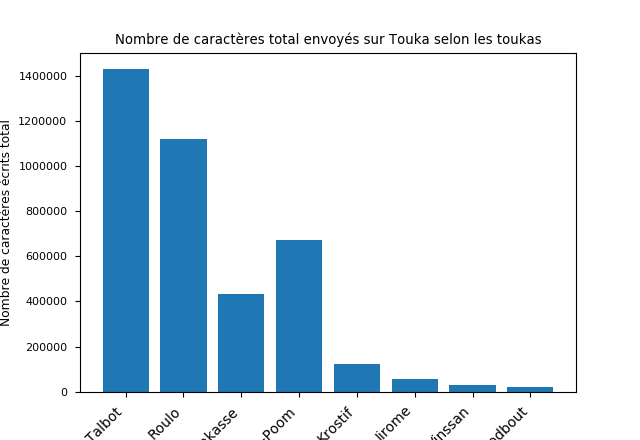
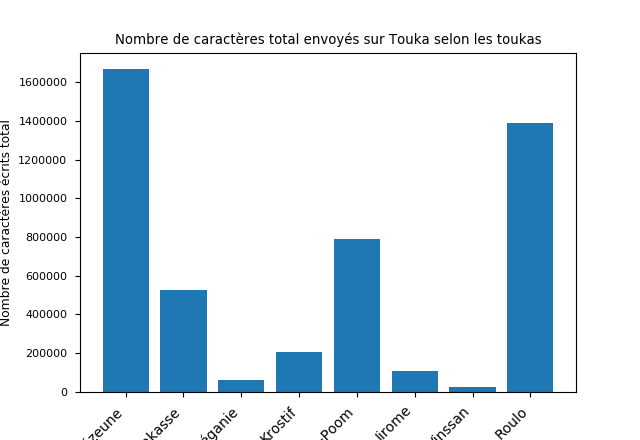
update TODO, adapt touka_analytics.py to DB

diff --git a/analytics/touka_analytics_DB.py b/analytics/touka_analytics_DB.py
@@ -1,10 +1,8 @@
-import json
-import codecs
 import datetime
+import pandas as pd
+from pymongo import MongoClient
 import matplotlib.pyplot as plt
 from scipy.interpolate import interp1d
-import numpy as np
-from matplotlib import dates
 
 
 def activite(temps, messages, dx=25):
@@ -26,123 +24,105 @@ def activite_interp(temps, messages, dx=3600):
 
 plt.style.use('seaborn-paper')
 
-noms_touka = ['Jé Talbot', 'Roulo', 'Lakasse', 'Pierre-Poom', 'Krostif', 'Jirome', 'Vinssan', 'Godbout']
+client = MongoClient("localhost", 27017)
+db = client['ToukaAnalytics']
 
-data = json.load(codecs.open('touka.json', 'r', 'utf-8'))  # Pour avoir les caractères spéciaux
+members = db['members']
+messages = db['messages']
 
-map_touka = dict(zip([participant['name'] for participant in data['participants']], noms_touka))
+data = []
 
-comptes = [sum([message['sender_name'] == participant['name'] for message in data['messages']]) for participant in
-           data['participants']]
+for member in members.find({}):
+    name = member['name']
+    # messages.aggregate( [ { "$project" : { 'content' : 1 , 'date' : 1 } } ] )
+    query_txt = {'$and': [ {'author': name}, {'content': {'$exists': True, '$ne': None } } ] }
+    query_react = {'$and': [ {'author': name}, {'reaction': {'$exists': True, '$ne': None } } ] }
 
-timestamps_tout = [float(message['timestamp_ms'] / 1000) for message in data['messages']]
+    member_messages = { msg['date'] : msg['content'] for msg in messages.find(query_txt) }
+    member_types = [ msg['type'] for msg in messages.find() ]
+    member_reacts = [ msg['reaction'] for msg in messages.find(query_react) ]
+    n_msg = messages.find(query_txt).count()
 
-messages_participant = [[message for message in data['messages'] if message['sender_name'] == participant['name']] for
-                        participant in
-                        data['participants']]
+    data.append( {'Name': member['pseudo'], 'txt_msg': member_messages, 'Type': member_types, 'Reaction' : member_reacts, 'msg_count' : n_msg} )
 
-nb_mess = [len(messages) for messages in messages_participant]
-print(nb_mess)
-
-# messages_participant: [[list de messages à jé talbot], [liste de message à roulo], ... ]
-
-timestamps = [[float(message['timestamp_ms'] / 1000) for message in participant] for participant in
-              messages_participant]  # [s]
+df = pd.DataFrame(data, columns=('Name', 'txt_msg', 'Type', 'Reaction', 'msg_count'))
+df = df.set_index('Name')
 
 nb_characters = []
 nb_characters_total = []
-for participant in messages_participant:
+for member in df.index:
     s = 0
     s_total = []
-    for message in participant:
-        try:
-            if message['content'][-17:] != "envoyé une photo.":
-                s += len(message['content'])
-        except:
-            ValueError
+    for msg in df.loc[member, 'txt_msg'].values():
+        s += len(msg)
         s_total.append(s)
     nb_characters.append(s_total)
     nb_characters_total.append(s)
 
-ratio_char_msg = [char / msg for char, msg in zip(nb_characters_total, nb_mess)]
+df['n_char'] = nb_characters
+df['n_char_total'] = nb_characters_total
 
-nb_messages = dict(zip([participant['name'] for participant in data['participants']], comptes))
-toukas_name_sorted = sorted(nb_messages.items(), key=lambda kv: kv[1])
-nb_messages = dict(sorted(nb_messages.items(), key=lambda kv: kv[1])[::-1])
+df['ratio_char_msg'] = df['n_char_total'] / df['msg_count']
 
-nb_messages = dict((map_touka[key], value) for (key, value) in nb_messages.items())
-
-plt.bar(nb_messages.keys(), nb_messages.values())
+plt.bar(df.index, df['msg_count'])
 plt.xticks(rotation=45, ha='right', size=10)
 plt.ylabel('Nombre de messages total')
 plt.title('Nombre de messages total envoyés sur Touka')
-plt.savefig('Figures/bar_nb_messages_total.png')
-# plt.show()
+plt.savefig('../figures/bar_nb_messages_total.png')
+plt.show()
 plt.clf()
 
-plt.bar(noms_touka, nb_characters_total)
+plt.bar(df.index, df['n_char_total'])
 plt.xticks(rotation=45, ha='right', size=10)
 plt.ylabel('Nombre de caractères écrits total')
 plt.title('Nombre de caractères total envoyés sur Touka selon les toukas')
-plt.savefig('Figures/bar_nb_char_total.png')
-# plt.show()
+plt.savefig('../figures/bar_nb_char_total.png')
+plt.show()
 plt.clf()
 
-plt.bar(noms_touka, ratio_char_msg)
+plt.bar(df.index, df['ratio_char_msg'])
 plt.xticks(rotation=45, ha='right', size=10)
 plt.ylabel('Ratio')
 plt.title('Ratio du nombre de caractères écrits par message sur Touka selon les toukas')
-plt.savefig('Figures/bar_ratio_char_msg.png')
-# plt.show()
+plt.savefig('../figures/bar_ratio_char_msg.png')
+plt.show()
 plt.clf()
 
-for i in range((len(timestamps))):
-    date_list = [datetime.datetime.fromtimestamp(t) for t in timestamps[i]]  # converted
-    plt.plot(date_list, range(len(timestamps[i]))[::-1], label=noms_touka[i])
+for name in df.index:
+    member_messages = df.loc[name, 'txt_msg']
+    plt.plot(member_messages.keys(), range(len(member_messages.keys()))[::-1], label=name)
 
 plt.gcf().autofmt_xdate()
 plt.legend()
 plt.ylabel('Nombre de messages')
 plt.title('Nombre de messages total dans le temps par touka')
-plt.savefig('Figures/nb_messages_dans_le_temps_par_touka.png')
-# plt.show()
+plt.savefig('../figures/nb_messages_dans_le_temps_par_touka.png')
+plt.show()
 plt.clf()
 
-for i in range((len(timestamps))):
-    date_list = [datetime.datetime.fromtimestamp(t) for t in timestamps[i]]  # converted
-    plt.plot(date_list, nb_characters[i][::-1], label=noms_touka[i])
+for name in df.index:
+    member_chars = df.loc[name, 'n_char']
+    plt.plot(member_chars, range(len(member_chars))[::-1], label=name)
 
 plt.gcf().autofmt_xdate()
 plt.legend()
 plt.ylabel('Nombre de caractères')
 plt.title('Nombre de caractères total dans le temps par touka')
-plt.savefig('Figures/nb_caractères_dans_le_temps_par_touka.png')
-# plt.show()
+plt.savefig('../figures/nb_caractères_dans_le_temps_par_touka.png')
+plt.show()
 plt.clf()
 
-for i in range((len(timestamps))):
-    date_list = [datetime.datetime.fromtimestamp(t) for t in timestamps[i]]  # converted
-    ratio = [char / msg for char, msg in zip(nb_characters[i][1:], range(1, len(timestamps[i])))]   # Pour éviter la division par 0
-    plt.plot(date_list[101:], ratio[::-1][100:], label=noms_touka[i])   # À partir du 100e message
-
-plt.gcf().autofmt_xdate()
-plt.legend()
-plt.ylabel('Nombre de messages')
-plt.title('Ratio du nombre de caractères écrits par message sur Touka selon les toukas\nà partir du 100e message')
-plt.savefig('Figures/ratio_char_msg_dans_le_temps_par_touka.png')
-# plt.show()
-plt.clf()
-
-for i in range((len(timestamps))):
-    temps, activite_ = activite_interp(timestamps[i], range(len(timestamps[i])),
+for name in df.index:
+    timestamps = [datetime.timestamp(date) for date in df.loc[name, 'tzt_msg'].keys()]
+    temps, activite_ = activite_interp(timestamps, range(len(timestamps)),
                                        dx=3600 * 24 * 30)  # Moyenné sur 1 mois
     date_list = [datetime.datetime.fromtimestamp(t) for t in temps]  # converted
-    plt.plot(date_list, activite_, label=noms_touka[i])
+    plt.plot(date_list, activite_, label=name)
 
 plt.gcf().autofmt_xdate()
 plt.legend()
 plt.ylabel('Activité [messages/jour]')
 plt.title('Activité dans le temps par touka\nmoyenné sur un mois')
-plt.savefig('Figures/activite_dans_le_temps_par_touka_sans_total.png')
-# plt.show()
+plt.savefig('../figures/activite_dans_le_temps_par_touka_sans_total.png')
+plt.show()
 plt.clf()
